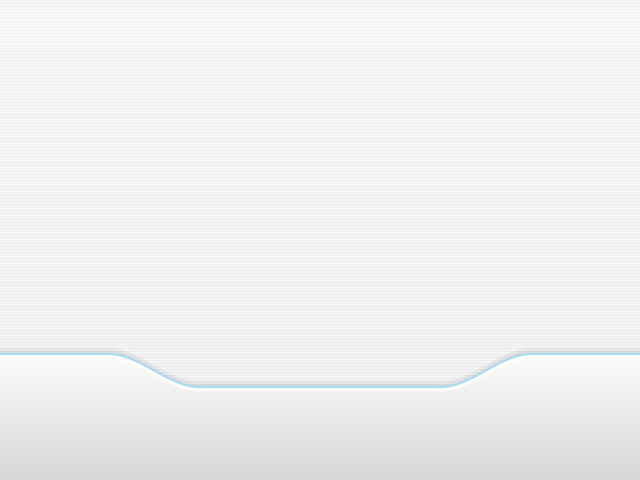
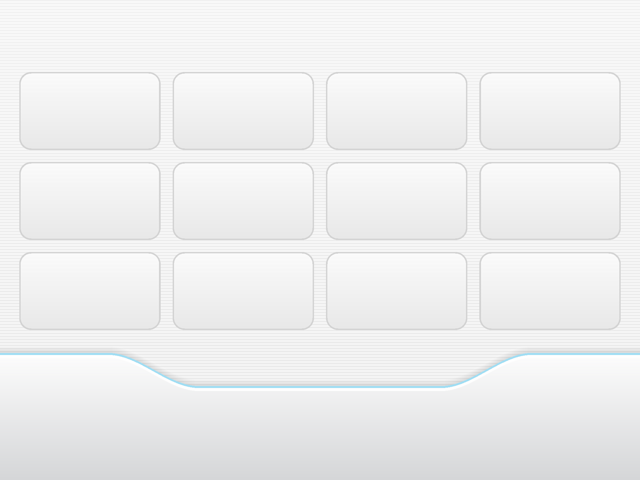
es-theme-cartridge: Show a system's games as channels too, in a grid where only the outline moves
Game lists open as a four by three grid of channels (the theme's defaultView),
each game's screenshot cropped to fill a white bezel, with empty slots under
the grid like the Wii's menu. The tiles stay put and the blue outline moves.
The selected game's name is in the dock. The list view is still there in UI
Settings.

diff --git a/generator/main.go b/generator/main.go
@@ -61,6 +61,12 @@ const (
 	listX, listW     = 19, 336
 	panelY, panelH   = 72, 258
 	detailX, detailW = 374, 247
+
+	// The grid, the default game list: the games as channels, four by three, like the Wii's menu. <imagegrid>
+	// pos 0.03 0.15, size 0.94 0.5375, margin 0.01875 0.025, autoLayout 4 3.
+	gridX, gridY, gridW, gridH = 19.2, 72, 601.6, 258
+	gridCols, gridRows         = 4, 3
+	gridMarginX, gridMarginY   = 12, 12
 )
 
 var fonts = map[string]*opentype.Font{}
@@ -86,6 +92,9 @@ func main() {
 	save(filepath.Join(themeDir, "assets", "frame.png"), selectionFrame())
 	save(filepath.Join(themeDir, "assets", "selector.png"), selector(634, 58))
 	save(filepath.Join(themeDir, "assets", "noart.png"), noArt(300, 300))
+	save(filepath.Join(themeDir, "assets", "tile.png"), gameTile(false))
+	save(filepath.Join(themeDir, "assets", "tile-selected.png"), gameTile(true))
+	save(filepath.Join(themeDir, "assets", "noart-tile.png"), noArtTile(282, 156))
 	fmt.Printf("drew %d systems\n", len(systems))
 }
 
@@ -167,10 +176,49 @@ func gamelistBackground() image.Image {
 	return c.done()
 }
 
+// gridBackground is behind the grid: empty channel slots where the grid's tiles go, so a system with few games
+// shows the rest of the page empty, like the Wii's menu.
 func gridBackground() image.Image {
 	c := newCanvas(screenW, screenH)
 	pinstripes(c)
+	w := float64(gridW-gridMarginX*(gridCols-1)) / gridCols
+	h := float64(gridH-gridMarginY*(gridRows-1)) / gridRows
+	for row := 0; row < gridRows; row++ {
+		for col := 0; col < gridCols; col++ {
+			x, y := gridX+float64(col)*(w+gridMarginX), gridY+float64(row)*(h+gridMarginY)
+			c.roundRect(x, y, w, h, 12, slotEdge)
+			c.roundRectFn(x+1.5, y+1.5, w-3, h-3, 10.5, vertical(y, h, rgb(0xFBFBFB), rgb(0xE8E8E8)))
+		}
+	}
 	dock(c, false)
+	return c.done()
+}
+
+// gameTile is the nine-patch behind a game in the grid (theme.xml's backgroundCornerSize is 16 16): a white
+// bezel around the game's art, with the blue outline when it's selected.
+func gameTile(selected bool) image.Image {
+	const n = 48.0
+	c := newCanvas(n, n)
+	c.roundRect(0, 0, n, n, 12, frameEdge)
+	c.roundRect(1.5, 1.5, n-3, n-3, 10.5, white)
+	c.roundRect(6, 6, n-12, n-12, 5, rgb(0xEDEDED))
+	if selected {
+		c.ring(0, 0, n, n, 12, 3.5, blue)
+		c.ring(3.5, 3.5, n-7, n-7, 8.5, 1, withAlpha(white, 200))
+	}
+	return c.done()
+}
+
+// noArtTile stands in for a game without art in the grid: the empty disc, without a frame (the tile has one).
+func noArtTile(w, h int) image.Image {
+	c := newCanvas(w, h)
+	W, H := float64(w), float64(h)
+	cx, cy, r := W/2, H/2, H*0.36
+	c.fill(0, 0, W, H, func(x, y float64) bool {
+		d := math.Hypot(x-cx, y-cy)
+		return d < r && d > r*0.18
+	}, solid(rgb(0xDADADA)))
+	c.ring(cx-r, cy-r, 2*r, 2*r, r, 3, rgb(0xC8C8C8))
 	return c.done()
 }
 

diff --git a/README.md b/README.md
@@ -6,16 +6,20 @@ like the themes already there.
 
 It looks like the Wii's menu: a pinstriped white background with rows of channel slots, each system a glossy
 channel in its own color in the middle row, a blue frame around the selected one, and the curved dock along the
-bottom with the clock. Each maker's systems share a family of colors. A game list has a band in the system's color
-across the top, the games in a white panel on the left with a light blue selector, and the box art and description
-in a panel on the right.
+bottom with the clock. Each maker's systems share a family of colors.
 
-| Systems | Game list |
-| --- | --- |
-| ![](previews/system.png) | ![](previews/gamelist.png) |
+A system's games are channels too: game lists open as a grid of four by three, each game's screenshot in a white
+bezel, with empty slots filling the rest of the page. Like the Wii, the tiles stay put and the blue outline moves.
+The list view (Start → UI Settings → Game List View → Detailed) has a band in the system's color across the top,
+the games in a white panel with a light blue selector, and the box art and description in a panel beside it.
+
+| Systems | Games | Game list (Detailed) |
+| --- | --- | --- |
+| ![](previews/system.png) | ![](previews/grid.png) | ![](previews/gamelist.png) |
 
 The previews are screenshots of ArkOS's EmulationStation built for macOS (see [es-preview](../es-preview/)), not
-from the console.
+from the console. The sample games there have their box art as the image, so the grid's preview was taken showing
+their screenshots, as a scraped card does.
 
 ## Installing
 
@@ -47,11 +51,18 @@ the theme works straight from the repository. The colors are in both `generator/
 - `art/<system>-header.png`: the band across the top of the system's game list (640×60, with its shadow).
 - `assets/menu.png`: the system view's background, with the empty slots and the dock. It and `assets/frame.png`
   (the blue frame) are `extra="static"`, so they stay still while the channels slide.
-- `assets/gamelist.png` (with the two panels) and `assets/grid.png`: the game lists' backgrounds.
+- `assets/gamelist.png` (with the two panels) and `assets/grid.png` (with an empty slot under each of the grid's
+  tiles): the game lists' backgrounds.
+- `assets/tile.png` and `assets/tile-selected.png`: the nine-patches behind a game in the grid, and
+  `assets/noart-tile.png` for a game without art there.
 - `assets/selector.png` (the pill behind the selected game) and `assets/noart.png` (for games without art).
 
 The carousel shows three channels a row and the empty slots are drawn in the background at the same places, so
-theme.xml's carousel and frame and the generator's layout constants have to change together.
+theme.xml's carousel and frame and the generator's layout constants have to change together. The same goes for
+the grid's `<imagegrid>` and its slots.
+
+The grid shows each game's `image`, which ES's scraper fills with a screenshot (and `thumbnail` with the box art),
+cropped to fill the tile. A card scraped with box art as the image shows the middle of each box instead.
 
 ## Credits
 

diff --git a/TODO.md b/TODO.md
@@ -1,7 +1,7 @@
 # TODO
 
-- [ ] Try it on the R36S and fix what doesn't look like the previews (taken from ES on macOS), and check the grid
-      view, which hasn't been looked at since the Wii look.
+- [ ] Try it on the R36S and fix what doesn't look like the previews (taken from ES on macOS). Check the grid's
+      videos (they play in the selected tile after 1.5 s) and folders.
 - [ ] Take screenshots on the console (they're saved to `EASYROMS/screenshots`) and use them in the README.
 - [ ] Check every system's `<theme>` name against the `es_systems.cfg` on the card. Systems with another name
       show text instead of a card.
